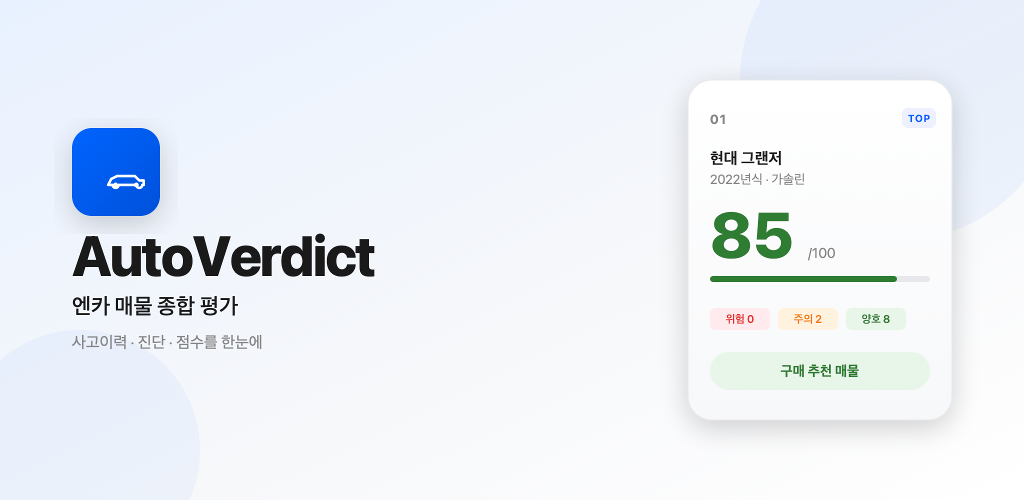
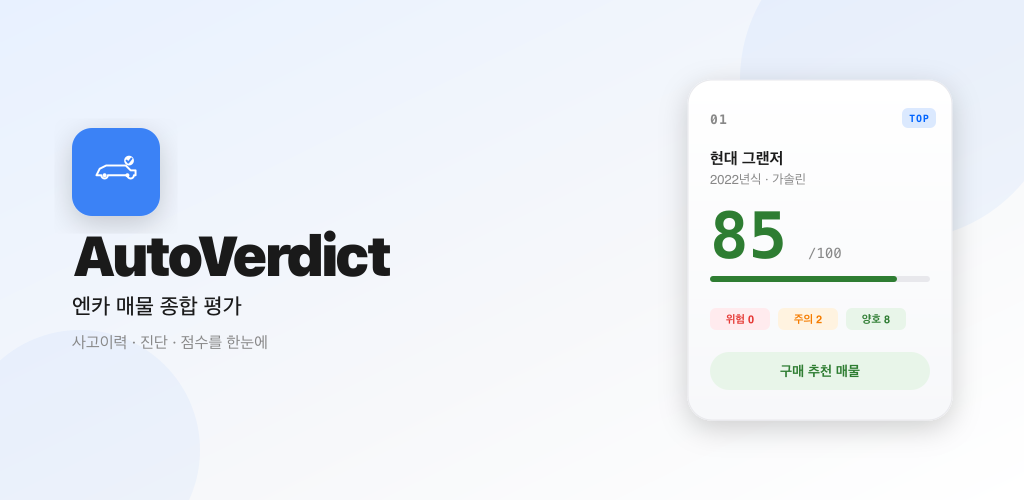
docs: Play Store assets, listing, checklist, and console walkthrough
- Add app technical-info section (package, SDKs, perms, AdMob) and console
  walkthrough for submission
- Reflect package rename and developer name in store listing
- Refresh optimized icon/feature-graphic assets

diff --git a/docs/play-console-walkthrough.md b/docs/play-console-walkthrough.md
@@ -1,0 +1,240 @@
+# Google Play Console 등록 — 처음부터 따라하기 (친절판)
+
+> AutoVerdict v1.0.0를 Play Store에 올리기 위한 **클릭 단위 가이드**.
+> 메뉴를 못 찾을 때 이 문서의 "📍 메뉴 위치"를 보고 그대로 따라가면 됩니다.
+> 입력값 모음·체크리스트는 [play-store-checklist.md](./play-store-checklist.md) 참고.
+
+---
+
+## 🗺 Play Console 화면 구조 먼저 이해하기
+
+Play Console은 **2단계**로 나뉩니다. 헷갈리는 이유가 이 구조 때문입니다.
+
+```
+1) 전체 계정 화면 (모든 앱 목록)
+     └─ "앱 만들기" 버튼
+
+2) 개별 앱 화면 (앱을 클릭하면 들어감)
+     └─ 왼쪽 사이드바에 모든 메뉴가 있음
+         ├─ 대시보드        ← 여기 "할 일 체크리스트"가 핵심
+         ├─ 테스트 및 출시   ← AAB 업로드, 테스트 트랙
+         ├─ 모니터링 및 개선
+         ├─ 수익 창출
+         ├─ 성장
+         └─ 정책 및 프로그램  ← "앱 콘텐츠"(정책 설문)가 여기
+```
+
+> 💡 **핵심 팁**: 앱을 만들고 나면 **대시보드**에 "앱 설정" + "출시" 두 개의 할 일 카드가 뜹니다.
+> 메뉴를 헤맬 필요 없이 **그 카드의 항목을 위에서 아래로 하나씩 클릭**하면 됩니다.
+> 아래 STEP들도 그 순서를 따릅니다.
+
+---
+
+## ✅ 시작 전 준비물 (이미 다 됨 / 사용자 할 일)
+
+| 준비물 | 상태 | 위치 |
+|---|---|---|
+| Release AAB | ✅ | `app/build/outputs/bundle/release/app-release.aab` |
+| 앱 아이콘 512×512 | ✅ | `docs/assets/play-icon-512.png` |
+| 피처 그래픽 1024×500 | ✅ | `docs/assets/feature-graphic-1024x500.png` |
+| 스토어 문구 | ✅ | `docs/store-listing.md` |
+| 개인정보처리방침 글 | ✅ | `docs/privacy-policy.md` |
+| **개인정보처리방침 공개 URL** | ⛔ 직접 | STEP 1 |
+| **스크린샷 2~8장** | ⛔ 직접 | STEP 2 |
+| **Keystore 백업** | ⛔ 직접 | STEP 0 |
+
+---
+
+## STEP 0 — Keystore 백업 (5분, 제일 먼저!)
+
+⚠️ 이 파일을 잃으면 **앱 업데이트가 영원히 불가능**합니다. 등록보다 먼저 하세요.
+
+백업할 것 (최소 2곳 — 비밀번호 매니저 + 클라우드):
+```
+파일:   secrets/autoverdict-upload.jks
+별칭:   autoverdict-upload
+비번:   keystore.properties 파일 안에 있음
+```
+> ❌ Git에 절대 커밋 금지 (이미 .gitignore 처리됨)
+
+---
+
+## STEP 1 — 개인정보처리방침 공개 URL 만들기 (30분)
+
+Play Console은 앱 내 화면이 아니라 **인터넷에 공개된 URL**을 요구합니다.
+
+### 가장 쉬운 방법 — GitHub Gist (5분)
+1. https://gist.github.com 접속 → 로그인
+2. 파일 이름 `privacy-policy.md` 입력
+3. `docs/privacy-policy.md` 내용 전체 붙여넣기
+4. **"Create public gist"** 클릭
+5. 우측 상단 **Raw** 버튼 클릭 → 그 주소를 복사 (이게 공개 URL)
+
+### 또는 GitHub Pages / Notion
+- Notion: 페이지에 내용 붙여넣기 → 우측 상단 **공유 → 웹에 게시 → 링크 복사**
+
+➡️ 만든 URL을 메모해 두세요. STEP 4의 "앱 콘텐츠"에서 입력합니다.
+
+---
+
+## STEP 2 — 스크린샷 캡처 (1~2시간, 최소 2장)
+
+휴대폰 스크린샷이 있어야 스토어 등록이 완료됩니다.
+
+```bash
+# 1) 에뮬레이터나 실기기 연결 확인
+adb devices
+
+# 2) 디버그 앱 설치
+export JAVA_HOME="/Applications/Android Studio.app/Contents/jbr/Contents/Home"
+./gradlew installDebug
+
+# 3) 화면을 띄운 뒤 캡처 (원하는 화면마다 반복)
+adb exec-out screencap -p > docs/assets/screenshots/01.png
+```
+추천 화면: 온보딩 → 분석 입력 → 분석 결과 → 저장 목록 → 비교 화면.
+규격: PNG/JPG, 가로·세로 320~3840px.
+
+---
+
+## STEP 3 — Play Console 계정 + 앱 만들기
+
+### 3-1. 개발자 계정 등록 (최초 1회)
+- https://play.google.com/console 접속
+- **25 USD 1회 결제** + 신원 확인(여권/신분증)
+- 검증에 **1~3일** 걸릴 수 있음 (이 시간은 기다려야 함)
+
+### 3-2. 앱 만들기
+📍 **메뉴 위치**: 전체 화면 우측 상단 **"앱 만들기"** 버튼
+
+| 입력 | 값 |
+|---|---|
+| 앱 이름 | AutoVerdict — 엔카 매물 평가 |
+| 기본 언어 | 한국어 (대한민국) |
+| 앱 / 게임 | 앱 |
+| 무료 / 유료 | 무료 |
+| 선언 2개 | 모두 체크 |
+
+→ 만들면 자동으로 **그 앱의 대시보드**로 들어갑니다. 여기서부터가 본 게임.
+
+---
+
+## STEP 4 — 대시보드 "앱 설정" 카드 (정책 설문)
+
+📍 **메뉴 위치**: 왼쪽 사이드바 맨 위 **대시보드** → 가운데 **"앱 설정"** 카드
+(또는 사이드바 **정책 및 프로그램 → 앱 콘텐츠**)
+
+아래 항목이 목록으로 보입니다. **위에서부터 하나씩** 클릭해 채우세요.
+
+| 설문 항목 | 응답 |
+|---|---|
+| 앱 액세스 권한 | "모든 기능을 제한 없이 사용 가능" |
+| 광고 | **예, 광고 포함** (AdMob 사용) |
+| 콘텐츠 등급 | 설문 시작 → 이메일 입력 → 카테고리 "유틸리티" → 질문 **모두 아니오** → 제출 (전체이용가) |
+| 타겟층 및 콘텐츠 | 만 13세 이상 선택 / 아동 대상 아님 |
+| 데이터 보안 | 아래 4-1 참고 |
+| 정부 앱 | 아니오 |
+| 금융 기능 | 아니오 |
+| 건강 | 해당 없음 |
+
+### 4-1. 데이터 보안(Data safety) 입력값
+- **데이터 수집/공유**: 예 → **기기 또는 기타 ID → 광고 ID** 1개만 체크
+- 수집 목적: **광고 또는 마케팅**
+- 전송 중 암호화: **예 (HTTPS)**
+- 삭제 요청 가능: **예**
+> 자세한 응답은 `docs/store-listing.md` 9절에 정리돼 있음.
+
+---
+
+## STEP 5 — 스토어 등록정보 (사용자에게 보이는 페이지)
+
+📍 **메뉴 위치**: 사이드바 **성장 → 스토어 현황 → 기본 스토어 등록정보**
+(영문 UI: Grow → Store presence → Main store listing)
+
+`docs/store-listing.md` 내용을 그대로 붙여넣기:
+
+| 칸 | 넣을 것 |
+|---|---|
+| 앱 이름 | AutoVerdict — 엔카 매물 평가 |
+| 간단한 설명 (80자) | store-listing의 짧은 설명 |
+| 자세한 설명 (4000자) | store-listing의 긴 설명 |
+| 앱 아이콘 | `docs/assets/play-icon-512.png` |
+| 그래픽 이미지(피처) | `docs/assets/feature-graphic-1024x500.png` |
+| 휴대전화 스크린샷 | STEP 2에서 만든 `docs/assets/screenshots/*.png` |
+
+📍 **카테고리 설정**: 같은 "성장 → 스토어 현황 → **스토어 설정**" 에서
+앱 카테고리 = **자동차**, 연락처 이메일 = [email redacted]
+
+---
+
+## STEP 6 — 앱 서명 확인 (그냥 켜두면 됨)
+
+📍 **메뉴 위치**: 사이드바 **테스트 및 출시 → 설정 → 앱 서명**
+- "Play 앱 서명"은 **기본으로 켜져 있음** → 그대로 두기.
+- 우리 `autoverdict-upload.jks`는 "업로드 키" 역할. 첫 AAB 올리면 자동 연결됩니다.
+> ⚠️ 여기 있는 "앱 무결성/Play Integrity"는 **건드릴 필요 없음** (이 앱엔 불필요).
+
+---
+
+## STEP 7 — 내부 테스트로 첫 업로드
+
+📍 **메뉴 위치**: 사이드바 **테스트 및 출시 → 테스트 → 내부 테스트**
+
+1. 우측 **"새 버전 만들기"** 클릭
+2. **App bundle** 영역에 `app-release.aab` 드래그 업로드
+3. 출시명/출시 노트 입력 (노트는 store-listing의 "무엇이 새로운가요?" 사용)
+4. **저장 → 검토 → 내부 테스트 트랙으로 출시**
+5. "테스터" 탭에서 **본인 이메일** 등록 → 받은 링크로 직접 설치 테스트
+
+> 내부 테스트는 보통 수십 분~수 시간 내 반영. 여기서 앱이 잘 깔리고 도는지 먼저 확인.
+
+---
+
+## STEP 8 — 비공개 테스트 (신규 개발자 의무)
+
+⚠️ 2023년 이후 **신규 개인 개발자**는 프로덕션 전에:
+**테스터 12명 이상 × 14일 이상** 비공개 테스트가 **의무**입니다.
+
+📍 **메뉴 위치**: **테스트 및 출시 → 테스트 → 비공개 테스트** → 새 트랙 생성
+
+- 내부 테스트의 AAB를 이 트랙으로 **승격**하거나 새로 업로드
+- 이메일 리스트 또는 Google 그룹으로 **12명 이상** 초대
+- **14일 동안 실제로 앱을 사용**해야 카운트됨 (설치만 하면 인정 안 됨)
+- 모집 팁: 가족·지인·동료 → Reddit r/AndroidApps, 개발자 디스코드
+
+---
+
+## STEP 9 — 프로덕션 출시 (실제 게시)
+
+📍 **메뉴 위치**: **테스트 및 출시 → 프로덕션**
+
+조건 충족(12명·14일) 후:
+1. **"새 버전 만들기"** → 비공개 트랙의 AAB를 승격
+2. 출시 국가: **대한민국** 선택
+3. **검토를 위해 제출** → Google 심사 (보통 1~7일) → 통과 시 자동 게시 🎉
+
+---
+
+## ⏱ 전체 타임라인
+
+| 단계 | 시간 |
+|---|---|
+| STEP 0~2 (백업·URL·스샷) | 반나절 |
+| STEP 3 계정 검증 | 1~3일 (대기) |
+| STEP 4~7 설정·업로드 | 2~3시간 |
+| STEP 8 비공개 테스트 | **14일 의무** |
+| STEP 9 프로덕션 심사 | 1~7일 |
+
+**최단 약 16~20일** (14일 의무 대기 포함)
+
+---
+
+## 🆘 메뉴를 정말 못 찾을 때
+
+- Play Console 우측 상단 **검색창(🔍)** 에 한국어로 메뉴명을 그대로 치면 바로 이동됩니다.
+  (예: "데이터 보안", "내부 테스트", "앱 서명")
+- 영문/한글 UI 용어 대응:
+  - 테스트 및 출시 = Test and release
+  - 앱 콘텐츠 = App content
+  - 스토어 현황 = Store presence
+- 공식 도움말: https://support.google.com/googleplay/android-developer

diff --git a/docs/play-store-checklist.md b/docs/play-store-checklist.md
@@ -24,6 +24,56 @@
 
 ---
 
+## 📋 앱 기술 정보 (Play Console 입력용)
+
+> `app/build.gradle.kts` · `AndroidManifest.xml`에서 확인한 실제 값. Play Console 양식에 그대로 입력하면 됩니다.
+
+| 항목 | 값 | 비고 |
+|---|---|---|
+| **패키지 이름 (applicationId)** | `com.car.autoverdict` | ⚠️ 한번 등록하면 변경 불가 — 모든 향후 업데이트의 영구 식별자 |
+| namespace | `com.car.autoverdict` | applicationId와 동일 |
+| **버전 코드 (versionCode)** | `1` | 업로드마다 +1 필수 |
+| **버전 이름 (versionName)** | `1.0.0` | 사용자에게 표시되는 버전 |
+| 최소 SDK (minSdk) | API 26 (Android 8.0 Oreo) | 지원 최저 기기 |
+| 타겟 SDK (targetSdk) | API 35 (Android 15) | Play 정책 충족 |
+| 컴파일 SDK (compileSdk) | API 35 | — |
+| 빌드 산출물 | AAB (Android App Bundle) | `app/build/outputs/bundle/release/app-release.aab` |
+| 코드 난독화 | R8 활성화 (`isMinifyEnabled = true`, `isShrinkResources = true`) | ProGuard 규칙: `app/proguard-rules.pro` |
+| 백업 허용 | `allowBackup="false"` | — |
+
+### 권한 (Permissions)
+
+| 권한 | 용도 |
+|---|---|
+| `android.permission.INTERNET` | 엔카 페이지 로드 및 API 호출 |
+| `com.google.android.gms.permission.AD_ID` | AdMob 광고 식별자 (AAID) |
+
+> 위치·카메라·연락처·저장소 등 민감 권한은 **요청하지 않음**.
+
+### 인텐트 필터 (앱 진입점)
+
+- `MAIN` / `LAUNCHER` — 일반 앱 실행
+- `SEND` (`text/plain`) — 엔카 앱·브라우저의 **공유 시트에서 AutoVerdict로 URL 공유** 가능
+
+### AdMob
+
+| 항목 | 값 |
+|---|---|
+| AdMob 앱 ID | `ca-app-pub-5353705048338468~6253564104` |
+| 광고 형식 | 배너 · 전면 (`play-services-ads:23.6.0`) |
+
+> AdMob 앱 ID는 `AndroidManifest.xml`의 `<meta-data>`에 명시되어 있으며, Play Console **데이터 안전성** 및 **광고 선언** 항목과 일치시켜야 합니다.
+
+### 개발자 정보
+
+| 항목 | 값                    |
+|---|----------------------|
+| 개발자명 | 박관웅                  |
+| 연락처 이메일 | [email redacted]     |
+| 서명 키 별칭 | `autoverdict-upload` |
+
+---
+
 ## 🚨 STEP 0 — 즉시 처리 (분실 위험)
 
 ### Keystore 백업